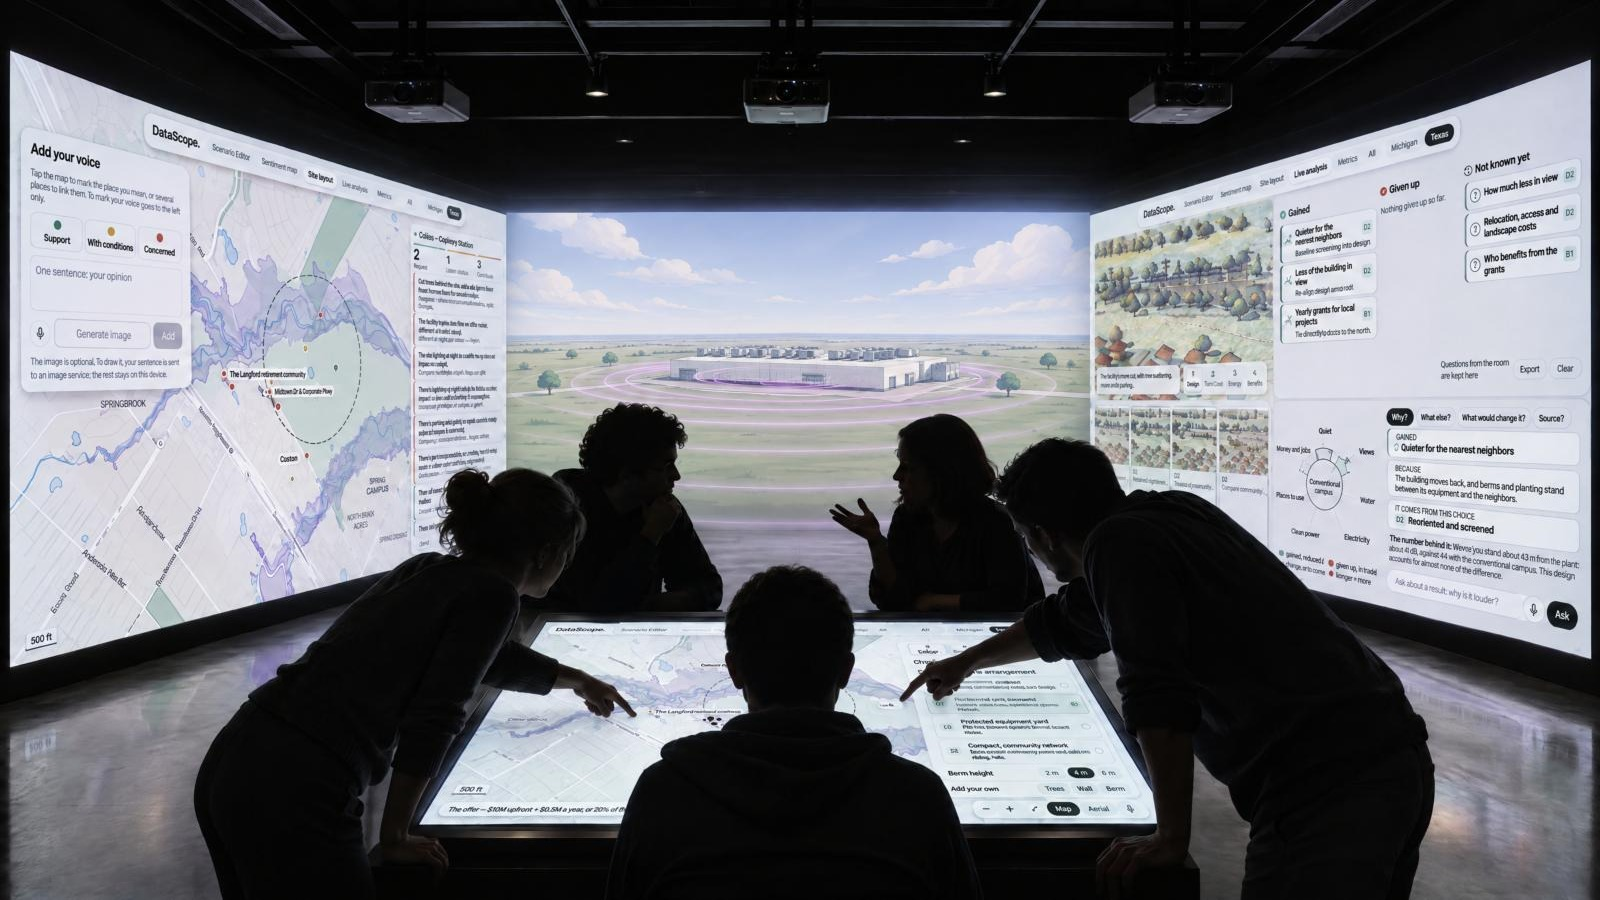
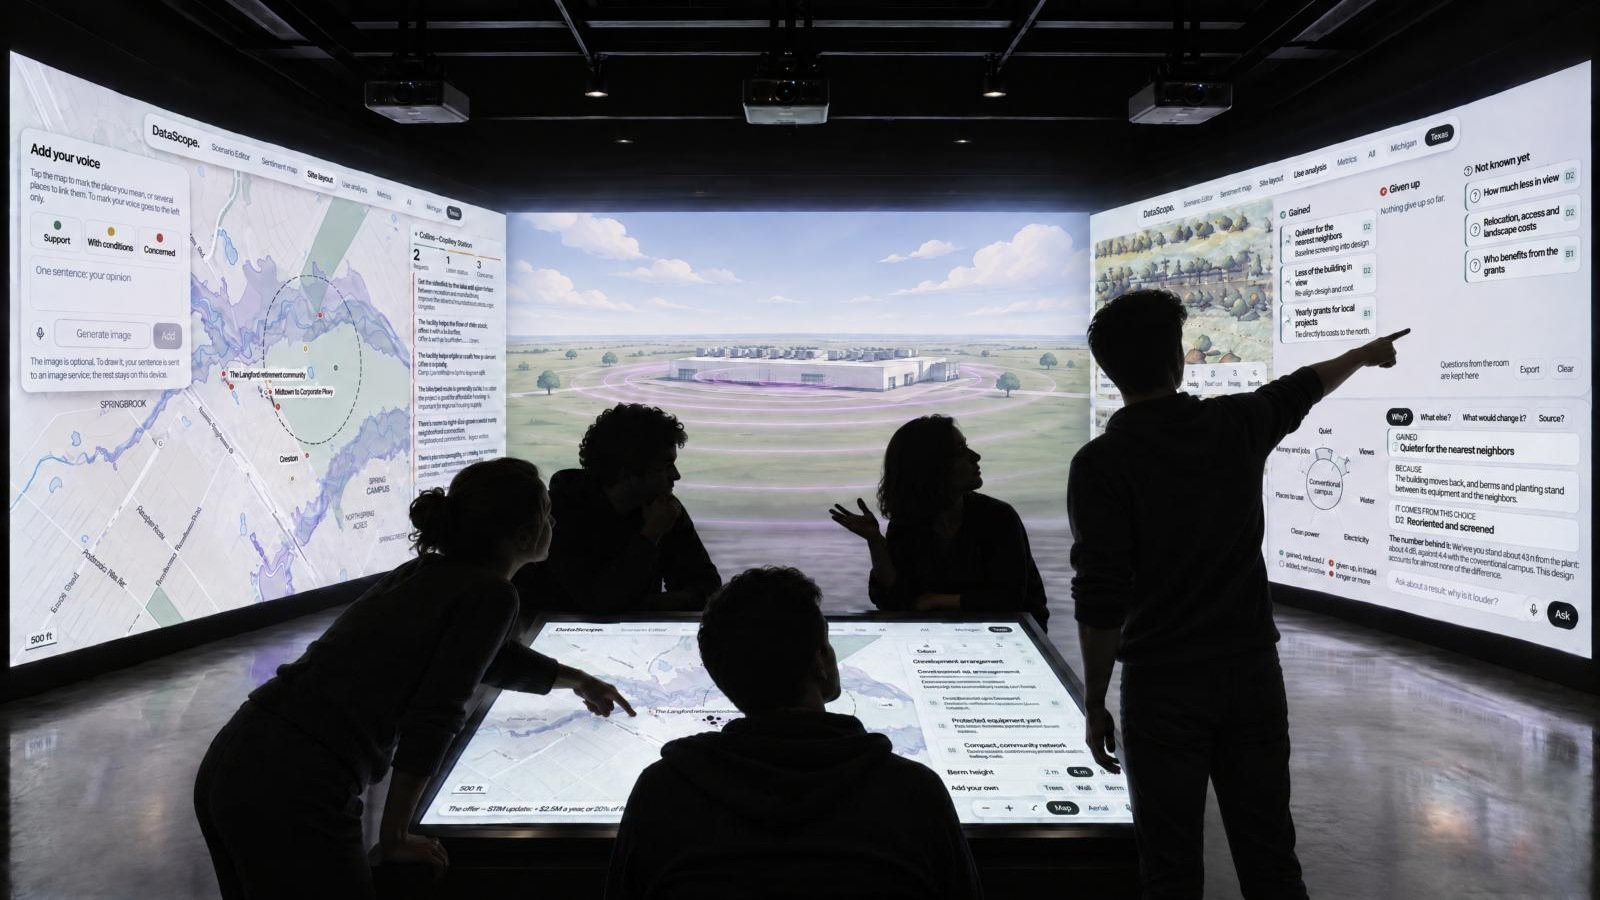
Examples: someone points at the right wall, where gains and losses are written
Claude-Session: https://claude.ai/code/session_01PFXLfQRL1Lz7nRwnk3DJoN

diff --git a/index.html b/index.html
@@ -1403,7 +1403,7 @@ function ccardHTML(c){
 }
 function examplesHTML(bare){
   function fig(src, cap, cls){ return '<figure' + (cls ? ' class="' + cls + '"' : '') + '><a href="' + src + '" target="_blank" rel="noopener"><img src="' + src + '" alt="' + cap + '" loading="lazy"></a><figcaption>' + cap + '</figcaption></figure>'; }
-  return '<div class="card exs"><div class="hd">Examples</div>' + fig("examples/room-people.jpg", "People deliberating around the four screens, with the center wall imagined as a place you could walk into and the sound drawn as rings. Generated image: the room, the people and the landscape are imagined, and the screens are redrawn from the real ones, so small text is approximate.", "hero") +
+  return '<div class="card exs"><div class="hd">Examples</div>' + fig("examples/room-people.jpg", "People deliberating around the four screens. One of them points at the right wall, where each choice is written as what it gains and what it gives up. The center wall is imagined as a place you could walk into, with the sound drawn as rings. Generated image: the room, the people and the landscape are imagined, and the screens are redrawn from the real ones, so small text is approximate.", "hero") +
     '<div class="exgrid">' + fig("guide/0-layout.jpg", "The room as the page lays it out") + fig("guide/1-left-wall.jpg", "Left wall · Sentiment map") +
     fig("guide/2-center-wall.jpg", "Center wall · Site layout") + fig("guide/3-table.jpg", "Table · Scenario Editor") + fig("guide/4-right-wall.jpg", "Right wall · Live analysis") + '</div></div>';
 }
@@ -2006,7 +2006,7 @@ try { var pk = new URLSearchParams(location.search).get("pick"); if (pk){ ST.b =
   setPose(ST.d === "D2" ? 10 : 0, ST.d === "D2" ? -12 : 0, ST.d === "D2" ? 10 : 0); var pc = new URLSearchParams(location.search).get("ch"); if (PAGES[pc]) ST.ch = pc; } } catch(e){}
 route();
 // A browser can keep an old copy of this page for a while. The page asks which version is published and, when it is not this one, reloads itself once.
-var BUILD = "20261123-001004";
+var BUILD = "20261123-001740";
 try { fetch("version.txt?t=" + Date.now(), {cache:"no-store"}).then(function(r){ return r.ok ? r.text() : ""; }).then(function(v){ v = (v || "").trim();
   if (v && v !== BUILD && sessionStorage.getItem("dcscope-reloaded") !== v){ sessionStorage.setItem("dcscope-reloaded", v); var u = new URL(location.href); u.searchParams.set("v", v); location.replace(u.toString()); } }).catch(function(){}); } catch(e){}
 try { fetch(SENTIMENT, {mode:"no-cors"}).then(function(){ LIVE = true; $("main").removeAttribute("data-shown"); render(); }).catch(function(){}); } catch(e){}
